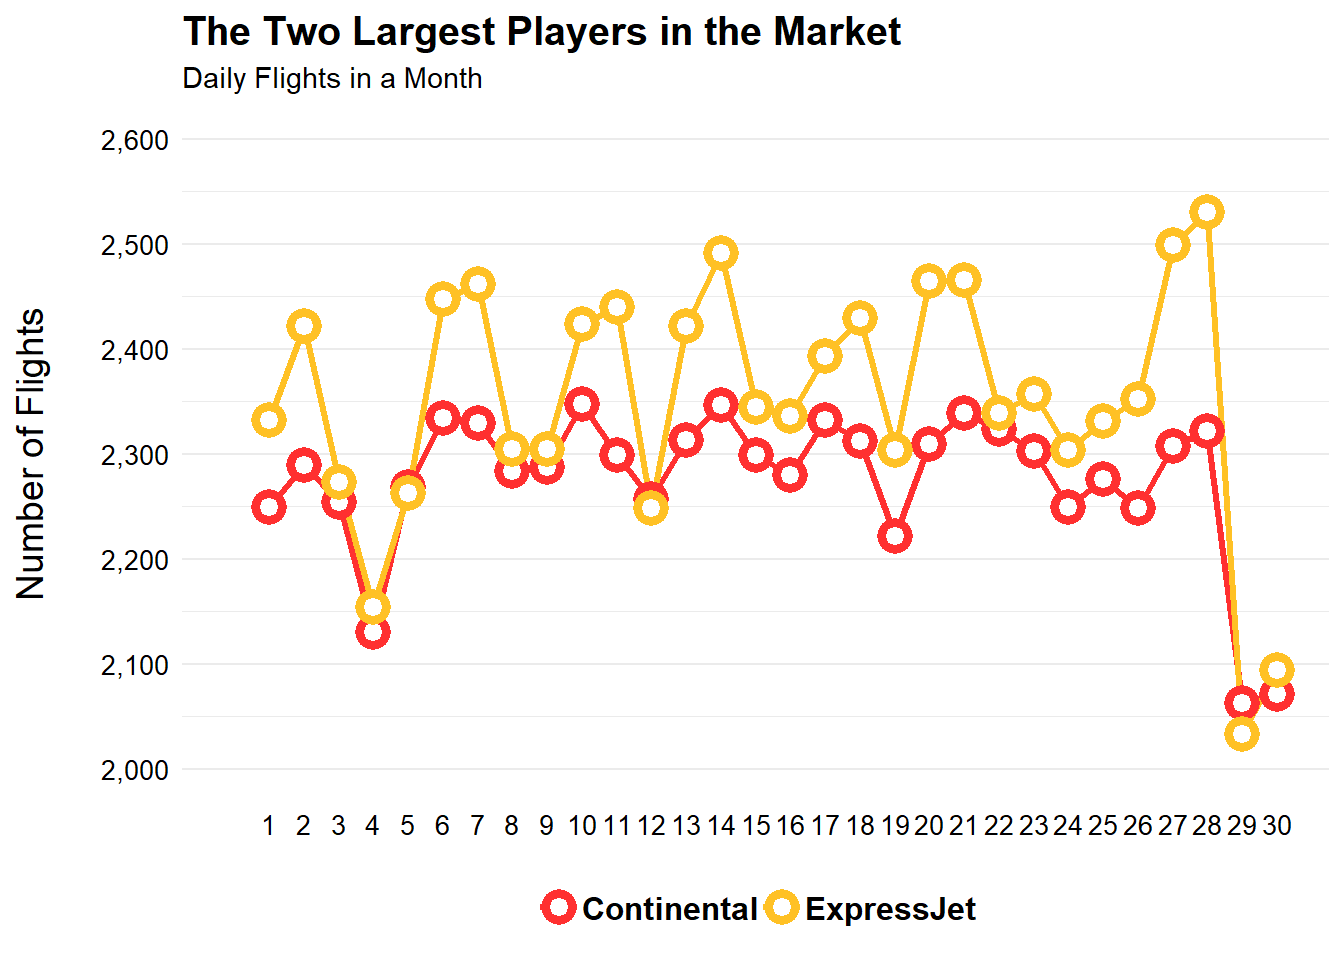
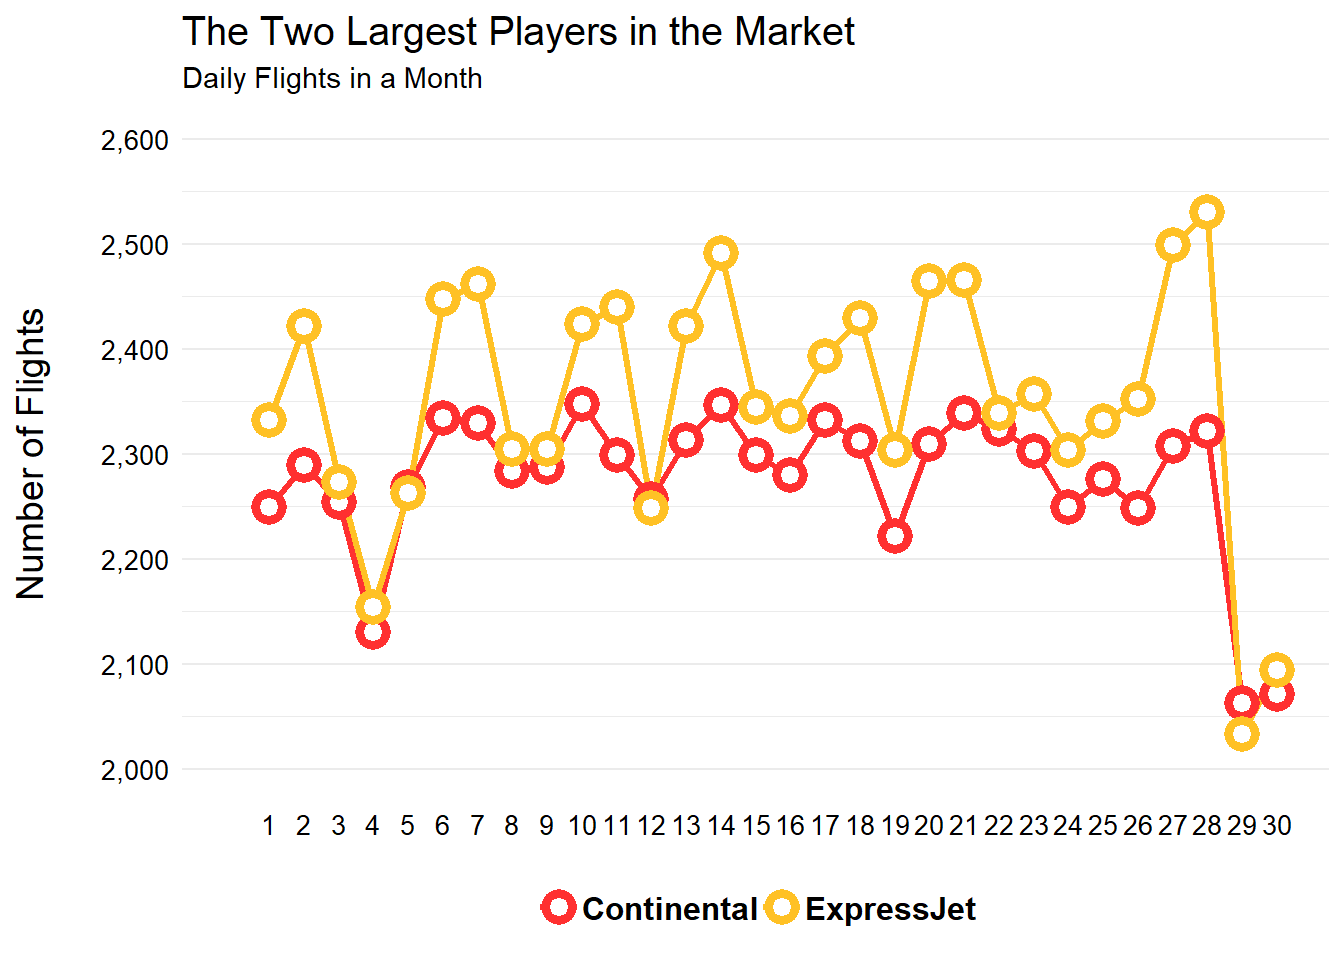
Initial Commit

Changed region(s): [[0.1562, 0.0, 0.6875, 0.0625]]

diff --git a/content/post/2018-11-16-analysis-of-airlines-market-in-usa.html b/content/post/2018-11-16-analysis-of-airlines-market-in-usa.html
@@ -190,7 +190,7 @@ two_largest_daily</code></pre>
     theme(legend.title = element_blank()) + 
     theme(legend.text = element_text(size = 12, colour = &quot;black&quot;, face = &quot;bold&quot;)) +
     labs(title = &quot;The Two Largest Players in the Market&quot;, subtitle = &quot;Daily Flights in a Week&quot;) + 
-    theme(plot.title = element_text(size = 15, face = &quot;bold&quot;))</code></pre>
+    theme(plot.title = element_text(size = 15))</code></pre>
 <p><img src="/post/2018-11-16-analysis-of-airlines-market-in-usa_files/figure-html/unnamed-chunk-7-1.png" width="672" /></p>
 <p style="text-align: justify;">
 <span style="color:#2A3132"><strong>How do ExpressJet and Continental perform daily within one month?</strong>
@@ -285,7 +285,7 @@ two_largest_daily_month</code></pre>
   theme(legend.title = element_blank()) + 
   theme(legend.text = element_text(size = 12, face = &quot;bold&quot;, colour = &quot;black&quot;)) +
   labs(title = &quot;The Two Largest Players in the Market&quot;, subtitle = &quot;Daily Flights in a Month&quot;) + 
-  theme(plot.title = element_text(size = 15, face = &quot;bold&quot;))</code></pre>
+  theme(plot.title = element_text(size = 15))</code></pre>
 <p><img src="/post/2018-11-16-analysis-of-airlines-market-in-usa_files/figure-html/unnamed-chunk-9-1.png" width="672" /></p>
 <p style="text-align: justify;">
 <span style="color:#2A3132"><strong>How do ExpressJet and Continental perform monthly?</strong>

diff --git a/public/post/analysis-of-airlines-market-in-usa/index.html b/public/post/analysis-of-airlines-market-in-usa/index.html
@@ -263,7 +263,7 @@ two_largest_daily</code></pre>
     theme(legend.title = element_blank()) + 
     theme(legend.text = element_text(size = 12, colour = &quot;black&quot;, face = &quot;bold&quot;)) +
     labs(title = &quot;The Two Largest Players in the Market&quot;, subtitle = &quot;Daily Flights in a Week&quot;) + 
-    theme(plot.title = element_text(size = 15, face = &quot;bold&quot;))</code></pre>
+    theme(plot.title = element_text(size = 15))</code></pre>
 <p><img src="/post/2018-11-16-analysis-of-airlines-market-in-usa_files/figure-html/unnamed-chunk-7-1.png" width="672" /></p>
 <p style="text-align: justify;">
 <span style="color:#2A3132"><strong>How do ExpressJet and Continental perform daily within one month?</strong>
@@ -358,7 +358,7 @@ two_largest_daily_month</code></pre>
   theme(legend.title = element_blank()) + 
   theme(legend.text = element_text(size = 12, face = &quot;bold&quot;, colour = &quot;black&quot;)) +
   labs(title = &quot;The Two Largest Players in the Market&quot;, subtitle = &quot;Daily Flights in a Month&quot;) + 
-  theme(plot.title = element_text(size = 15, face = &quot;bold&quot;))</code></pre>
+  theme(plot.title = element_text(size = 15))</code></pre>
 <p><img src="/post/2018-11-16-analysis-of-airlines-market-in-usa_files/figure-html/unnamed-chunk-9-1.png" width="672" /></p>
 <p style="text-align: justify;">
 <span style="color:#2A3132"><strong>How do ExpressJet and Continental perform monthly?</strong>
